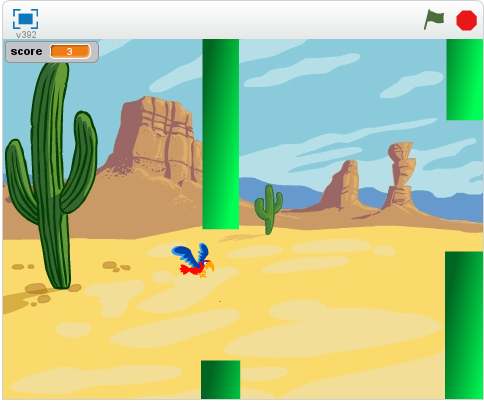
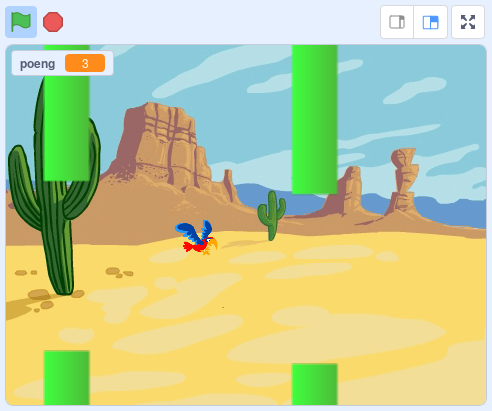
Har oppdatert alle bilder samt ikoner til å passe til scratch 3. Har også lagt til en del ikoner for bedre å få frem hva som det skal klikkes på i grensesnittet.

diff --git a/src/scratch/flaksefugl/flaksefugl.md b/src/scratch/flaksefugl/flaksefugl.md
@@ -147,21 +147,28 @@ __Klikk det grønne flagget.__
 
 ## Sjekkliste {.check}
 
-- [ ] Legg til en ny figur ved å klikke på *Tegn ny figur*-knappen, ![Tegn ny
-  figur](../bilder/tegn-ny.png).
+- [ ] Legg til en ny figur ved å klikke på *Tegn ny figur*-knappen. 
+
+  ![Tegn ny figur](tegn-ny.png)
 
 - [ ] Hvis det står `Gå til vektorgrafikk` på en knapp nederst til venstre, klikk på knappen.
 
 - [ ] Klikk på `Zoom =` så du kan se hele tegneområdet.
 
-- [ ] Klikk på `Rektangel`-ikonet, nederst til venstre ved tegneområdet. Velg farge på rektangelet som skal tegnes ved å klikke på `Fyll`. Velg en fin farge. Vi ønsker å gjøre omrisset av firkanten gjennomsiktig. Dette gjør vi ved å klikke på `Kant`, og klikke på ikonet helt nederst i farge-dialogen, med en rød skråstrek.
+  ![Zoom =](zoom_eq.png)
+
+- [ ] Klikk på `Rektangel`-ikonet, nederst til venstre ved tegneområdet ![Rektangel](rektangel.png). Velg farge på rektangelet som skal tegnes ved å klikke på `Fyll`. Velg en fin farge. Vi ønsker å gjøre omrisset av firkanten gjennomsiktig. Dette gjør vi ved å klikke på `Kant`, og klikke på ikonet helt nederst i farge-dialogen, med en rød skråstrek.
+
+  ![fyll kant](fyll_kant.png)
 
 - [ ] Tegn to bokser ved å klikke og dra i tegneområdet. Tegn én boks på toppen og én på bunnen av
   tegneflaten. Det skal se omtrent sånn ut:
 
   ![Bilde av et hinder for Flakse](pipe_design.png)
 
-- [ ] Skyggelegg rørene. Dette gjør du ved å klikke `Velg`, som ser ut som en musepeker. Deretter klikker du på firkanten som skal skyggelegges. Klikk på `Fyll`-ikonet over tegneområdet til venstre. I den nye dialogen som dukker opp, velg mellom forskjellige måter å skyggelegge på med de små ikonene i toppen av dialogen.
+- [ ] Skyggelegg rørene. Dette gjør du ved å klikke `Velg` ![velg](velg.png). Deretter klikker du på firkanten som skal skyggelegges. Klikk på `Fyll`-ikonet over tegneområdet til venstre. I den nye dialogen som dukker opp, velg mellom forskjellige måter å skyggelegge på med de små ikonene i toppen av dialogen.
+
+  ![Fyll gradering](fyll_gradering.png)
 
 - [ ] Gi den nye figuren navnet `Rør`.
 
